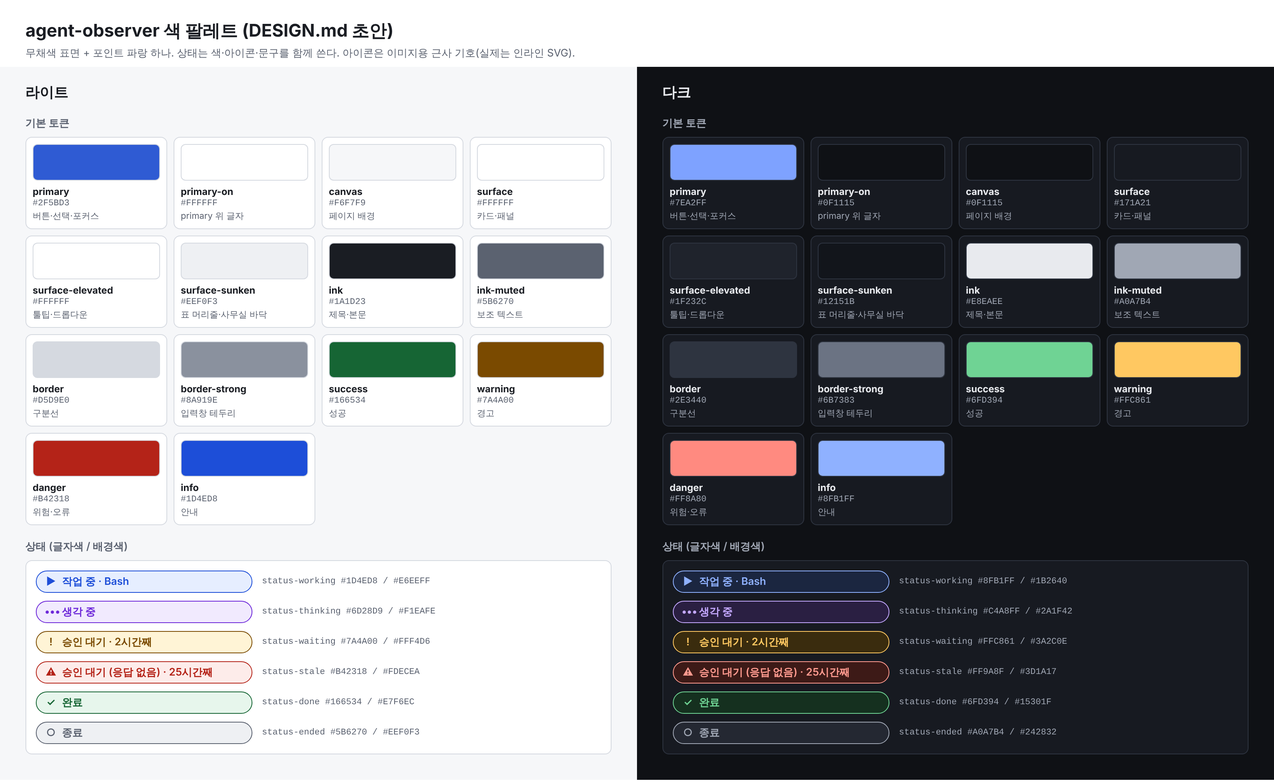
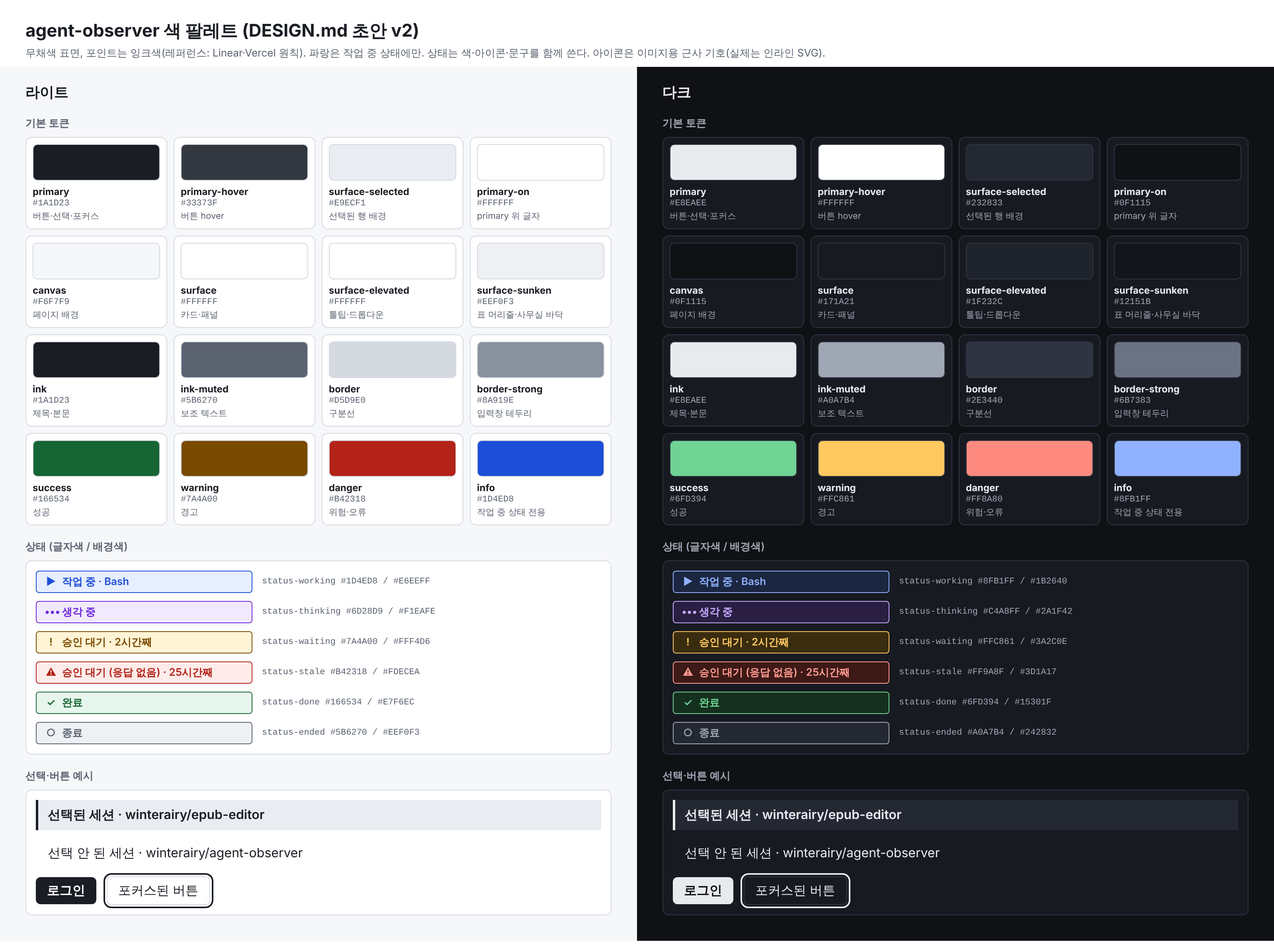
docs(#1): 레퍼런스에 근거해 디자인 기준 초안 재검토
awesome-design-md의 Linear·Vercel 원칙을 참고해 포인트 색을 잉크색으로
바꾸고 파랑은 작업 중 상태에만 써서 선택·포커스와 헷갈리지 않게 한다.
팔레트 이미지도 새 값으로 다시 만든다.

Refs #1

Claude-Session: https://claude.ai/code/session_01Pskavkos1grK2vTJrSc9ji

Changed region(s): [[0.0, 0.0, 1.0, 1.0]]

diff --git a/DESIGN.md b/DESIGN.md
@@ -2,17 +2,19 @@ name: agent-observer
 status: draft            # draft(초안, 승인 대기) | approved(승인됨)
 description: |
   여러 Claude Code 세션과 BOT의 상태·토큰·비용을 한눈에 보는 개인용 관찰 도구.
-  무채색 표면 위에 상태 색 6가지만 의미를 갖고, 포인트 색(파랑)은 선택·주요 동작에만 쓴다.
+  무채색 표면 위에 상태 색 6가지만 유채색을 갖는다. 주요 동작·선택·포커스는 유채색이 아닌 잉크색(거의 검정/거의 흰색)으로 표현해 상태 색과 겹치지 않게 한다.
   장식보다 정보 밀도와 상태 구분(색 + 아이콘 + 문구)을 우선한다. 라이트/다크 모두 지원한다.
 
 colors:
   # 라이트 값. 다크 값은 2절 표. 컴포넌트는 반드시 CSS 변수 이름(--color-<역할>)으로만 참조한다.
-  primary: "#2F5BD3"          # 주요 버튼, 링크, 선택된 세션·필터, 포커스 링
+  primary: "#1A1D23"          # 주요 버튼 배경, 선택 막대, 탭 선택 막대, 포커스 링 (= ink. 유채색 아님)
+  primary-hover: "#33373F"    # primary 버튼 호버
   primary-on: "#FFFFFF"       # primary 위의 텍스트
   canvas: "#F6F7F9"           # 페이지 배경
   surface: "#FFFFFF"          # 카드, 패널
   surface-elevated: "#FFFFFF" # 툴팁, 드롭다운(그림자로 구분)
-  surface-sunken: "#EEF0F3"   # 표 머리줄, 임시 사무실 바닥, 스켈레톤
+  surface-sunken: "#EEF0F3"   # 표 머리줄, 임시 사무실 바닥, 스켈레톤, 호버 배경
+  surface-selected: "#E9ECF1" # 선택된 세션 행 배경(막대와 함께 씀)
   ink: "#1A1D23"              # 제목, 본문
   ink-muted: "#5B6270"        # 보조 텍스트(시각, 브랜치, 단위)
   border: "#D5D9E0"           # 구분선, 카드 테두리(장식용, 대비 요구 없음)
@@ -20,7 +22,7 @@ colors:
   success: "#166534"
   warning: "#7A4A00"
   danger: "#B42318"
-  info: "#1D4ED8"
+  info: "#1D4ED8"             # = status-working-fg. 1단계 화면에서는 작업 중 상태 외에 쓰지 않는다
   # 상태 색: 각 상태는 fg(글자·아이콘)와 bg(배지 배경) 한 쌍
   status-working-fg: "#1D4ED8"
   status-working-bg: "#E6EEFF"
@@ -41,8 +43,8 @@ typography:
   font-body: "system-ui, -apple-system, 'Apple SD Gothic Neo', 'Malgun Gothic', 'Noto Sans KR', 'Segoe UI', Roboto, sans-serif"
   font-mono: "ui-monospace, SFMono-Regular, Menlo, Consolas, 'D2Coding', monospace"
   scale:          # 크기 / 줄간격 / 굵기 / 자간
-    h1: "20px / 1.3 / 700 / -0.01em"     # 헤더 제목, 로그인 제목
-    h2: "16px / 1.4 / 700 / 0"           # 패널 제목(세션 목록, 세션 상세, 합계, 사무실)
+    h1: "20px / 1.3 / 600 / -0.01em"     # 헤더 제목, 로그인 제목
+    h2: "16px / 1.4 / 600 / -0.005em"           # 패널 제목(세션 목록, 세션 상세, 합계, 사무실)
     h3: "14px / 1.4 / 600 / 0"           # 카드 안 제목(세션 이름, BOT 이름)
     body: "14px / 1.6 / 400 / 0"
     small: "13px / 1.5 / 400 / 0"
@@ -56,12 +58,12 @@ spacing:
 radius:
   sm: "4px"       # 배지, 사무실 사각형
   md: "6px"       # 버튼, 입력창, 선택 상자
-  lg: "10px"      # 카드, 패널
+  lg: "8px"       # 카드, 패널
   full: "9999px"  # 상태 점
 
 shadow:
-  sm: "0 1px 2px rgba(16,24,40,0.06)"     # 카드(라이트만)
-  md: "0 4px 12px rgba(16,24,40,0.12)"    # 툴팁
+  sm: "0 1px 1px rgba(16,24,40,0.02), 0 2px 2px rgba(16,24,40,0.04)"                                  # 카드(라이트만, 테두리와 함께)
+  md: "0 1px 1px rgba(16,24,40,0.02), 0 8px 16px -4px rgba(16,24,40,0.08), 0 24px 32px -8px rgba(16,24,40,0.10)"  # 툴팁(작은 그림자 여러 겹)
 
 breakpoints:
   mobile: "390px"     # 기준 폭. 0~767px는 한 열
@@ -82,19 +84,23 @@ breakpoints:
 
 - **사용 원칙**
   - 의미를 갖는 색은 상태 색 6가지(작업 중·생각 중·승인 대기·응답 없음·완료·종료)뿐이다. 그 외 표면은 무채색이다.
-  - primary는 선택 상태, 포커스, 화면의 주요 동작(로그인 버튼)에만 쓴다.
+  - primary는 잉크색이다(라이트 #1A1D23, 다크 #E8EAEE). 주요 동작(로그인 버튼), 선택 표시 막대, 포커스 링에만 쓴다. 유채색 포인트 색은 두지 않는다 — 파랑은 오직 "작업 중"이다.
+  - 선택은 "표면 한 단계 올림(surface-selected) + 왼쪽 잉크 막대 + aria-current"로, 상태는 "상태 색 + 아이콘 + 문구"로 표현해 두 표현 방식이 서로 다른 축을 쓴다.
+  - 링크는 ink 글자 + 밑줄(호버 시 밑줄 굵게). 파랑 링크를 쓰지 않는다.
   - 상태는 **색 + 아이콘 + 문구** 세 가지를 항상 함께 보인다(6절 "상태 표현"). 색만으로 구분하지 않는다.
   - danger는 오류 메시지와 "응답 없음" 상태에만 쓴다. "정리" 버튼은 위험 동작이 아니므로(되돌아옴) danger를 쓰지 않는다.
 - **다크 모드**: 지원. `prefers-color-scheme: dark`를 따른다(수동 전환 버튼은 1단계 범위 밖). 값은 아래.
 
 | 역할 | 라이트 | 다크 |
 |---|---|---|
-| primary | #2F5BD3 | #7EA2FF |
+| primary | #1A1D23 | #E8EAEE |
+| primary-hover | #33373F | #FFFFFF |
 | primary-on | #FFFFFF | #0F1115 |
 | canvas | #F6F7F9 | #0F1115 |
 | surface | #FFFFFF | #171A21 |
 | surface-elevated | #FFFFFF | #1F232C |
 | surface-sunken | #EEF0F3 | #12151B |
+| surface-selected | #E9ECF1 | #232833 |
 | ink | #1A1D23 | #E8EAEE |
 | ink-muted | #5B6270 | #A0A7B4 |
 | border | #D5D9E0 | #2E3440 |
@@ -115,10 +121,14 @@ breakpoints:
 | 조합 | 라이트 | 다크 | 통과 |
 |---|---|---|---|
 | ink / canvas | 15.75 | 15.69 | O |
+| ink / surface-selected (선택 행 글자) | 14.26 | 12.25 | O |
 | ink-muted / canvas | 5.72 | 7.81 | O |
 | ink-muted / surface | 6.13 | 7.20 | O |
-| primary-on / primary | 5.90 | 7.65 | O |
-| primary / surface (링크) | 5.90 | 7.05 | O |
+| ink-muted / surface-selected | 5.18 | 6.10 | O |
+| primary-on / primary (로그인 버튼) | 16.88 | 15.69 | O |
+| primary-on / primary-hover | 11.94 | 18.90 | O |
+| primary / surface (포커스 링·선택 막대, 비텍스트) | 16.88 | 14.45 | O (비텍스트) |
+| primary / canvas (포커스 링) | 15.75 | 15.69 | O (비텍스트) |
 | danger / surface | 6.57 | 7.63 | O |
 | working fg / bg | 5.76 | 7.08 | O |
 | thinking fg / bg | 6.07 | 7.57 | O |
@@ -137,7 +147,10 @@ breakpoints:
   - 토큰: 1,000 미만은 그대로, 이상은 `12.3K`, `1.2M`(소수 1자리). 표의 `title`에 전체 값(`12,285`).
   - 비용: `$0.0123`처럼 `$` + 소수 4자리(0.0001 미만은 `<$0.0001`). 추정이면 뒤에 "추정" 배지.
   - 시각: 상대 시간("3분 전", "2시간째"). `<time datetime>` + `title`에 현지 절대 시각.
-- **글꼴 라이선스**: 운영체제 기본 글꼴만 쓴다. 웹폰트·폰트 파일을 추가하지 않는다(과업 조건). Pretendard 등은 쓰지 않는다.
+- **굵기 상한 600**: 제목도 600을 넘지 않는다(레퍼런스 Vercel·Linear의 공통 원칙, 차분한 인상). 강조는 크기·색이 아니라 굵기 500/600으로.
+- **mono는 기술 식별자에만**: 세션 ID, 브랜치, 역할 키(`qa`), 모델 이름. 본문·문구에는 쓰지 않는다.
+- **글꼴 라이선스**: 운영체제 기본 글꼴만 쓴다. 폰트 파일을 저장소에 추가하지 않는다.
+- **제안(미적용, 별도 판단 필요)**: 운영체제마다 한글 글꼴이 달라 화면 인상이 바뀐다. 통일하려면 Pretendard(SIL OFL, 무료) 가변 웹폰트를 본문 글꼴로, mono는 JetBrains Mono(OFL)를 검토할 수 있다. 저장소 추가 또는 CDN 사용 여부는 책임자·사용자가 정한다.
 
 ## 4. 레이아웃
 
@@ -149,7 +162,8 @@ breakpoints:
 
 ## 5. 깊이와 표면
 
-- 카드·패널은 `surface` + 1px `border`. 라이트는 shadow-sm을 더하고, 다크는 그림자 없이 테두리만.
+- 카드·패널은 `surface` + 1px `border`. 라이트는 shadow-sm(작은 그림자 두 겹)을 더하고, 다크는 그림자 없이 테두리와 표면 단계(canvas → surface → surface-elevated)로만 깊이를 준다.
+- 표면 단계: canvas(페이지) < surface(패널) < surface-selected(선택 행) < surface-elevated(툴팁). 단계를 건너뛰어 섞지 않는다.
 - 툴팁은 `surface-elevated` + shadow-md(다크는 border).
 - z-index: 기본 0, 헤더 10, 툴팁 20. 모달은 1단계에 없다.
 
@@ -157,7 +171,7 @@ breakpoints:
 
 CSS Module 파일 이름 기준. 모든 상호작용 요소는 포커스 링(아래)과 최소 터치 영역 44×44px(모바일)을 지킨다.
 
-공통 포커스: `:focus-visible { outline: 2px solid var(--color-primary); outline-offset: 2px; }` — outline을 지우지 않는다.
+공통 포커스: `:focus-visible { outline: 2px solid var(--color-primary); outline-offset: 2px; }` — outline을 지우지 않는다. primary가 잉크색이므로 포커스 링은 어떤 상태 배지·상태 막대와도 색이 겹치지 않는다.
 공통 비활성: 불투명도 0.5, `cursor: not-allowed`, `aria-disabled` 또는 `disabled`.
 
 ### 상태 표현 (StatusBadge) — 핵심 규칙
@@ -189,10 +203,10 @@ CSS Module 파일 이름 기준. 모든 상호작용 요소는 포커스 링(아
 | secondary | 정리, 다시 시도, 로그아웃 | surface | ink | 1px border-strong | 32px(데스크톱) / 40px(모바일) | md |
 | ghost | 접기/펼치기, 닫기 | 투명 | ink-muted | 없음 | 32px / 40px | md |
 
-- 호버: primary는 밝기 -8%(`filter` 대신 `color-mix(in srgb, var(--color-primary) 92%, black)`), secondary·ghost는 배경 surface-sunken.
+- 호버: primary는 배경 primary-hover, secondary·ghost는 배경 surface-sunken.
 - 눌림: 호버 색 + `transform: translateY(1px)`.
 - 로딩: 글자를 "로그인 중…"으로 바꾸고 비활성.
-- 다크 모드 primary 호버는 `color-mix(... 90%, white)`.
+- 다크 모드에서도 같은 토큰(primary-hover)을 쓴다. color-mix로 색을 만들지 않는다.
 
 ### 입력창·폼 (TextField, Select)
 - 높이 40px(모바일 44px), 1px border-strong, radius md, 안쪽 여백 12px, body 글자, 배경 surface.
@@ -210,8 +224,9 @@ CSS Module 파일 이름 기준. 모든 상호작용 요소는 포커스 링(아
 - 1줄: 프로젝트 이름(h3, 말줄임) + 클라우드 표시(`remote`가 true일 때 텍스트 배지 "클라우드": 1px border-strong 테두리, ink-muted 글자, 투명 배경)
 - 2줄: StatusBadge + 브랜치(mono, small, ink-muted) + "BOT N" + 마지막 이벤트 상대 시간
 - 오른쪽: "정리" secondary 버튼(행 버튼 안에 중첩하지 않도록 행은 `<li>` 안에 링크와 정리 버튼을 형제로 둔다).
-- 선택됨: 왼쪽 3px primary 막대 + 배경 `color-mix(in srgb, var(--color-primary) 8%, var(--color-surface))`, `aria-current="true"`.
-- 승인 대기 행: 왼쪽 막대 status-waiting-fg(응답 없음은 status-stale-fg). 선택됨과 겹치면 막대는 상태 색, 배경은 선택 색.
+- 선택됨: 왼쪽 3px primary(잉크) 막대 + 배경 surface-selected + 프로젝트 이름 600, `aria-current="true"`.
+- 승인 대기 행: 왼쪽 막대 status-waiting-fg(응답 없음은 status-stale-fg). 선택됨과 겹치면 막대는 상태 색, 배경은 surface-selected, 이름 600 — 선택은 배경·굵기로, 상태는 막대·배지로 읽힌다.
+- 작업 중 행은 막대를 두지 않는다(배지로 충분). 따라서 파란 막대는 화면 어디에도 없다.
 
 ### BOT 행 (AgentRow)
 - 1줄: 표시 이름(h3) + 역할 키(caption, mono, ink-muted, 예: `qa`) + StatusBadge
@@ -268,9 +283,12 @@ CSS Module 파일 이름 기준. 모든 상호작용 요소는 포커스 링(아
 - 긴 이름은 말줄임 + `title`. 가로 스크롤을 만들지 않는다.
 
 ### Don't
-- colors에 없는 색, 그라데이션, 장식 그림자를 쓰지 않는다.
+- colors에 없는 색, 그라데이션, 장식 그림자를 쓰지 않는다. 그림자는 작은 그림자 여러 겹(shadow 토큰)만.
+- 유채색을 선택·포커스·버튼에 쓰지 않는다. 유채색은 상태 전용이다.
+- 제목에 700 이상 굵기, 전부 대문자 표기를 쓰지 않는다.
+- 탭·버튼을 알약(pill) 모양으로 만들지 않는다. 버튼은 radius md(6px).
 - 아이콘만으로 상태를 나타내지 않는다. 배지를 깜박이게 하지 않는다.
-- 외부 폰트·이미지·아이콘 파일을 추가하지 않는다.
+- 폰트·이미지·아이콘 파일을 저장소에 추가하지 않는다(웹폰트는 3절 제안 참조).
 - 원본 Pixel Agent Desk 그림을 쓰거나 본뜨지 않는다.
 - 프롬프트·응답·도구 입력을 화면에 보이지 않는다(수집하지 않음).
 
@@ -290,46 +308,67 @@ CSS Module 파일 이름 기준. 모든 상호작용 요소는 포커스 링(아
 
 ## 11. 레퍼런스
 
-이번 초안은 외부 디자인 레퍼런스(이미지, 다른 제품의 DESIGN.md, 폰트·아이콘 세트)를 가져오지 않았다. 과업 조건이 "외부 이미지·폰트 파일 추가 금지"였고 `docs/design-refs/`도 없어서, 실제 기준은 공개 접근성 표준과 널리 쓰이는 웹 관례뿐이다. 특정 제품 화면을 열어 보고 따라 한 것은 없다.
+2026-11-11 재검토에서 awesome-design-md 컬렉션(https://github.com/VoltAgent/awesome-design-md) 목록을 읽고, 개발자 도구 계열 후보(Linear, Vercel, Sentry, Supabase, PostHog, Raycast) 가운데 아래 두 개를 골라 원문 DESIGN.md 전체를 읽었다. 이 문서들은 각 회사의 **마케팅 사이트**를 분석한 것이라, 앱 화면에 맞는 원칙(색 역할, 타이포 위계, 간격, 깊이, 컴포넌트 형태, Do/Don't)만 가져왔다. 로고, 고유 이름, 고유 글꼴, 브랜드 그라데이션, 특정 화면 배치는 쓰지 않았다.
 
-### 11.1 실제로 기준으로 삼은 것
-
-| 영역 | 레퍼런스 | 가져온 것 | 다르게 한 것 |
-|---|---|---|---|
-| 색 대비 | WCAG 2.2 대비 기준 1.4.3·1.4.11 — https://www.w3.org/TR/WCAG22/#contrast-minimum | 상대 휘도 공식, 본문 4.5:1과 비텍스트 3:1 기준. 2절 표의 값은 이 공식으로 직접 계산했다 | 기준보다 여유를 두어 모든 텍스트 조합을 5.3:1 이상으로 잡았다 |
-| 상태 표현 | WCAG 2.2 1.4.1 색 사용 — https://www.w3.org/TR/WCAG22/#use-of-color | 색만으로 정보를 전달하지 않는다는 원칙 → 색 + 아이콘 + 문구 세 겹 | 상태마다 아이콘 모양 자체를 다르게 했다(원/삼각형 등). 색맹 시뮬레이션은 하지 않았다 |
-| 탭(합계) | WAI-ARIA Authoring Practices, Tabs 패턴 — https://www.w3.org/WAI/ARIA/apg/patterns/tabs/ | `tablist/tab/tabpanel` 역할, 화살표·Home/End 이동, 자동 활성 | 탭은 두 개뿐이라 세로 방향·수동 활성 같은 변형은 쓰지 않았다 |
-| 포커스·키보드 | WCAG 2.2 2.4.7 포커스 표시, 2.4.3 포커스 순서, 2.4.1 블록 건너뛰기 | 보이는 포커스 링, DOM 순서 = Tab 순서, "본문으로 건너뛰기" 링크 | 포커스 링 색은 primary 하나로 정했다(별도 포커스 색 없음) |
-| 터치 영역 | WCAG 2.2 2.5.5 대상 크기(AAA, 44×44 CSS px) — https://www.w3.org/TR/WCAG22/#target-size-enhanced | 모바일 최소 44×44px | 데스크톱은 밀도를 위해 32px 버튼을 허용했다(AA 2.5.8의 24px 이상은 만족) |
-| 움직임 | CSS `prefers-reduced-motion` 미디어 기능(Media Queries Level 5) | 줄이기 설정 시 움직임 끔 | — |
-| 다크 모드 | CSS `prefers-color-scheme`, `color-scheme` 속성 | 시스템 설정을 따름 | 수동 전환은 넣지 않았다(미결 사항) |
-| 글꼴 | 각 운영체제 기본 글꼴(system-ui, Apple SD Gothic Neo, Malgun Gothic, Noto Sans KR) | 파일을 추가하지 않고 한글을 표시하는 시스템 글꼴 스택 | 웹폰트(Pretendard 등)는 조건 때문에 쓰지 않았다 |
-| 표 마크업 | HTML 표준 `<table>`·`<caption>`·`<th scope>`, 네이티브 `<select>`·`<details>` | 브라우저 기본 접근성 동작을 그대로 쓴다 | — |
-
-### 11.2 레퍼런스 없이 직접 정한 것
-
-| 결정 | 근거 |
-|---|---|
-| 상태 색 배정(작업 중 파랑, 생각 중 보라, 승인 대기 앰버, 응답 없음 빨강, 완료 초록, 종료 회색) | 레퍼런스 없음, 이유: 특정 시스템을 따르지 않았다. "앰버 = 주의, 빨강 = 문제, 초록 = 끝남, 회색 = 비활성"이라는 일반 관례에 맞춰 직접 골랐고, 값은 대비 계산으로만 검증했다 |
-| 상태 아이콘 6종 모양 | 레퍼런스 없음, 이유: 아이콘 세트 추가가 금지돼 있어 단순한 도형(재생 삼각형, 점 셋, 원 안 느낌표, 삼각형 안 느낌표, 체크, 속 빈 원)으로 직접 정했다 |
-| 무채색 표면 + 포인트 색 하나 | 레퍼런스 없음, 이유: 개발자용 대시보드에서 흔한 방식이라는 일반 지식에 기댔을 뿐, 특정 제품을 보고 정하지 않았다 |
-| 배치(1280 3열 목록 | 상세 | 사무실·합계, 390 한 열) | 레퍼런스 없음, 이유: 일반적인 목록-상세 패턴을 HANDOFF 8절 요구(한 페이지 `/`, `?session=`)에 맞춰 직접 배치했다 |
-| 글자 크기(본문 14px)·간격(4px 단위)·모서리 값 | 레퍼런스 없음, 이유: 정보 밀도를 우선해 직접 정했다 |
-| 컴포넌트 형태(SessionRow, WaitingBanner, AgentRow 등) | 레퍼런스 없음, 이유: HANDOFF T1-5 요구와 API 응답 필드(5절)에서 직접 도출했다 |
-| 임시 사무실(단색 사각형, 세 구역, 책상 막대) | 레퍼런스 없음, 이유: HANDOFF T1-5·설계 8절의 "단색 사각형, 책상 줄/대기 줄/경고 표시"만 기준으로 했다. **원본 Pixel Agent Desk 그림·화면은 보지도 참고하지도 본뜨지도 않았다** |
-
-### 11.3 후보(미적용)
-
-사용자가 원하면 비교해 볼 만한 공개 디자인 시스템이다. 이번 초안에는 반영하지 않았고, 원문도 읽지 않았다. 반영하려면 외부 자료 참고 허가가 필요하다.
-
-| 후보 | 공개 URL | 비교해 볼 점 |
+| 레퍼런스 | 원문 | 고른 이유 |
 |---|---|---|
-| GitHub Primer | https://primer.style | 개발자 도구의 상태 배지·라벨 색 체계, 촘촘한 목록 밀도 |
-| IBM Carbon Design System | https://carbondesignsystem.com | 상태 표시를 색과 모양으로 함께 구분하는 규칙, 데이터 표 패턴 |
-| awesome-design-md 컬렉션(개발자 도구 계열 항목) | https://github.com/VoltAgent/awesome-design-md | 팀 기본 절차의 초안 레퍼런스 출처. 어울리는 항목 2~3개를 골라 조합해 볼 수 있다 |
+| Linear | `design-md/linear.app/DESIGN.md` | 엔지니어용 도구, "촘촘하고 정밀한" 성격. 유채색 포인트를 포커스·주요 버튼에만 아껴 쓰고, 깊이를 그림자 대신 표면 단계와 가는 테두리로 만든다 — 다크 모드와 상태 밀도가 높은 이 제품에 맞다 |
+| Vercel | `design-md/vercel/DESIGN.md` | 개발 플랫폼(배포 대시보드). 주요 버튼이 유채색이 아닌 잉크색이고, 상태(성공·경고·오류)용 색을 따로 둔다 — 이번 파랑 충돌의 해법이 여기서 나왔다. 라이트 표면 단계(흰 카드 / 98% 바탕 / 95% 안쪽)가 현재 초안과 같은 구조라 비교가 쉬웠다 |
+
+Sentry 원문은 앞부분(색 토큰, 글꼴)만 훑었고, 마케팅용 장식 색(라임·핑크)이 중심이라 고르지 않았다. 나머지 후보는 목록 설명만 읽었다.
+
+### 11.1 가져온 것과 다르게 한 것
+
+| 영역 | 가져온 것 (출처) | 다르게 한 것 |
+|---|---|---|
+| 주요 동작 색 | 주요 버튼을 잉크색(거의 검정)으로 칠하고 유채색과 분리 (Vercel `primary #171717`) | 잉크 값은 기존 ink(#1A1D23 / #E8EAEE)를 그대로 써 토큰을 늘리지 않았다. Vercel은 링크·성공에 파랑을 쓰지만 여기서는 파랑을 "작업 중" 전용으로 남기고 링크는 잉크+밑줄 |
+| 유채색 절제 | 유채색 포인트는 포커스·주요 버튼에만, 장식 금지 (Linear Do/Don't "lavender ONLY for…", "Don't introduce a second chromatic accent") | Linear는 포인트 색 하나를 남기지만, 여기서는 상태 색 6가지가 이미 유채색이라 포인트 색을 아예 없앴다 |
+| 선택 표현 | "선택 = 표면 한 단계 올림" (Linear pricing-tab-selected: surface-2 배경) | surface-selected 토큰을 새로 두고 왼쪽 잉크 막대·aria-current를 더했다(색 대비 1.18이라 배경만으로는 부족) |
+| 깊이 | 표면 단계 + 1px 테두리, 다크에서 그림자 거의 없음 (Linear Elevation 표) / 작은 그림자 여러 겹 (Vercel Level 2·5) | 다크는 그림자 0, 라이트는 shadow-sm 두 겹·shadow-md 세 겹. Vercel의 inset 테두리 대신 실제 1px border 유지 |
+| 글자 굵기 | 제목 굵기 상한 600, 700 이상 금지 (Vercel Principles, Linear Do "resists 700+") | h1·h2를 700 → 600. 큰 제목의 강한 음수 자간은 가져오지 않았다(20px 이하 제목뿐이고 한글은 자간을 크게 줄이면 읽기 어렵다) |
+| mono 역할 | mono는 기술 레이어(ID, 코드, 기술 라벨)에만, 본문 금지 (Vercel Principles, Linear "status / ID tokens") | 기존 규칙과 같아 명시만 했다. Vercel의 mono 눈썹 제목(eyebrow)은 쓰지 않았다 |
+| 간격 | 4px 기준, 4·8·12·16·24·32·48 (두 문서 공통) | 이미 같은 척도였다. 마케팅용 64·96px 이상은 앱 화면에 필요 없어 넣지 않았다 |
+| 모서리 | 버튼·입력 6px, 카드 8px, 상태 배지 4px (Vercel `--geist-radius` 6 / marketing 8, Linear xs 4) | 카드 10 → 8px. 알약형 CTA(Vercel 100px, Linear pill)는 앱 화면에 맞지 않아 금지로 적었다 |
+| 입력 높이 | 40px 기본, 촘촘한 곳 32px (Vercel form-input / -sm) | 모바일은 44px 유지(WCAG 2.5.5) |
+| 헤더 | 상단 고정, 높이 56px (Linear top-nav) | 기존 값과 같다 |
+| 상태 배지 | 작은 배지, caption 글자 (Linear status-badge) | Linear는 무채색 알약 배지지만, 여기서는 상태 색 bg/fg + 아이콘 + 문구를 유지했다(WCAG 1.4.1) |
+
+### 11.2 레퍼런스와 무관하게 유지한 기준
+
+| 영역 | 기준 |
+|---|---|
+| 색 대비 | WCAG 2.2 1.4.3·1.4.11 (https://www.w3.org/TR/WCAG22/#contrast-minimum). 2절 표는 상대 휘도 공식으로 직접 계산했다 |
+| 상태 표현 | WCAG 2.2 1.4.1 색 사용 — 색 + 아이콘 + 문구 세 겹 |
+| 탭 | WAI-ARIA APG Tabs 패턴 |
+| 포커스·키보드 | WCAG 2.2 2.4.7, 2.4.3, 2.4.1 |
+| 터치 영역 | WCAG 2.2 2.5.5(모바일 44×44), 데스크톱 32px 버튼은 2.5.8(24px) 만족 |
+| 움직임·다크 | `prefers-reduced-motion`, `prefers-color-scheme` |
+| 상태 색 배정·아이콘 6종·배치·임시 사무실 | 레퍼런스 없이 HANDOFF T1-5와 일반 관례로 직접 정했다. **원본 Pixel Agent Desk 그림·화면은 보지도 참고하지도 본뜨지도 않았다** |
+
+### 11.3 쓰지 않은 것
+
+- 두 브랜드의 로고, 이름, 고유 글꼴(Geist, Linear 전용 글꼴), Vercel 메시 그라데이션, Linear 라벤더 색, 제품 스크린숏 중심 배치.
+- Linear의 다크 전용 원칙("light mode 없음") — 이 제품은 라이트/다크 모두 지원한다.
 
 ## 12. 미결 사항
 
 - 다크 모드 수동 전환 여부(1단계는 시스템 설정만).
 - 정리한 세션을 다시 보는 화면(API `ended=all`) 제공 여부 — 1단계 명세에는 "숨긴 세션 보기" 토글을 넣지 않았다.
 - 3단계 사무실 그림이 정해지면 6절 임시 사무실 항목을 교체한다.
+- 웹폰트(Pretendard, JetBrains Mono) 도입 여부(3절 제안).
+- `docs/team/reports/design-palette.png`는 이전 팔레트(파랑 포인트) 기준이라 이번 값과 다르다. 승인 전 다시 만들어야 한다.
+
+## 13. 이전 초안과 달라진 점
+
+1. **파랑 충돌 해결**: primary #2F5BD3 / #7EA2FF(파랑) → 잉크색 #1A1D23 / #E8EAEE. 파랑(#1D4ED8 / #8FB1FF)은 "작업 중" 상태 전용이 됐다. 선택·포커스·주요 버튼에는 유채색을 쓰지 않는다.
+2. 토큰 추가: `primary-hover`(#33373F / #FFFFFF), `surface-selected`(#E9ECF1 / #232833). color-mix로 호버 색을 만들던 규칙 삭제.
+3. 선택된 세션 행: primary 8% 섞은 파란 배경 → surface-selected 배경 + 왼쪽 잉크 막대 + 이름 600.
+4. 링크: 파랑 글자 → ink 글자 + 밑줄.
+5. 탭 선택 막대: 파랑 → 잉크(명세 반영).
+6. 대비 표 갱신: primary 관련 행을 새 값으로 다시 계산하고, 선택 행 글자·포커스 링 행 추가.
+7. 글자 굵기: h1·h2 700 → 600, 굵기 상한 600 규칙 추가. mono 사용 범위 명시.
+8. 모서리: 카드·패널 radius lg 10 → 8px. 알약형 버튼·탭 금지.
+9. 그림자: 한 겹 → 작은 그림자 여러 겹(shadow-sm 두 겹, shadow-md 세 겹). 다크는 그림자 없이 표면 단계로 깊이.
+10. 표면 단계 순서(canvas < surface < surface-selected < surface-elevated)를 명시.
+11. 웹폰트를 "금지"에서 "파일 추가 없이 쓰되, 도입은 제안으로 남김"으로 바꿈.
+12. 11절 레퍼런스: "외부 레퍼런스 없음" → Linear·Vercel 원문을 읽고 가져온 것·다르게 한 것을 표로 정리.

diff --git a/docs/team/design-spec-stage1.md b/docs/team/design-spec-stage1.md
@@ -319,7 +319,7 @@ BOT 목록 (h3 "BOT ({N})")
 ## 7. 새 컴포넌트
 
 이 명세에서 쓰는 컴포넌트는 모두 DESIGN.md 6절에 정의했다(WaitingBanner, SessionRow, AgentRow, EstimateTag, Note, ErrorBar, SyncIndicator, OfficeFloor/OfficeAvatar 포함). 추가로 필요한 것: 탭(Tabs) — DESIGN.md에 없으므로 여기서 정의한다.
-- Tabs: 높이 36px(모바일 44px), 글자 small 600. 비선택 ink-muted, 선택 ink + 아래 2px primary 막대. 탭 목록 아래 1px border. 호버 시 ink.
+- Tabs: 높이 36px(모바일 44px), 글자 small 600. 비선택 ink-muted, 선택 ink 600 + 아래 2px primary(잉크색) 막대. 탭 목록 아래 1px border. 호버 시 ink.
 
 ## 8. 화면에 보이지 않는 것(확인용)
 - 프롬프트·응답·도구 입력·명령 인자. UserPromptExpansion의 `command`도 화면에 쓰지 않는다(설계상 원본 이벤트에만 저장).
